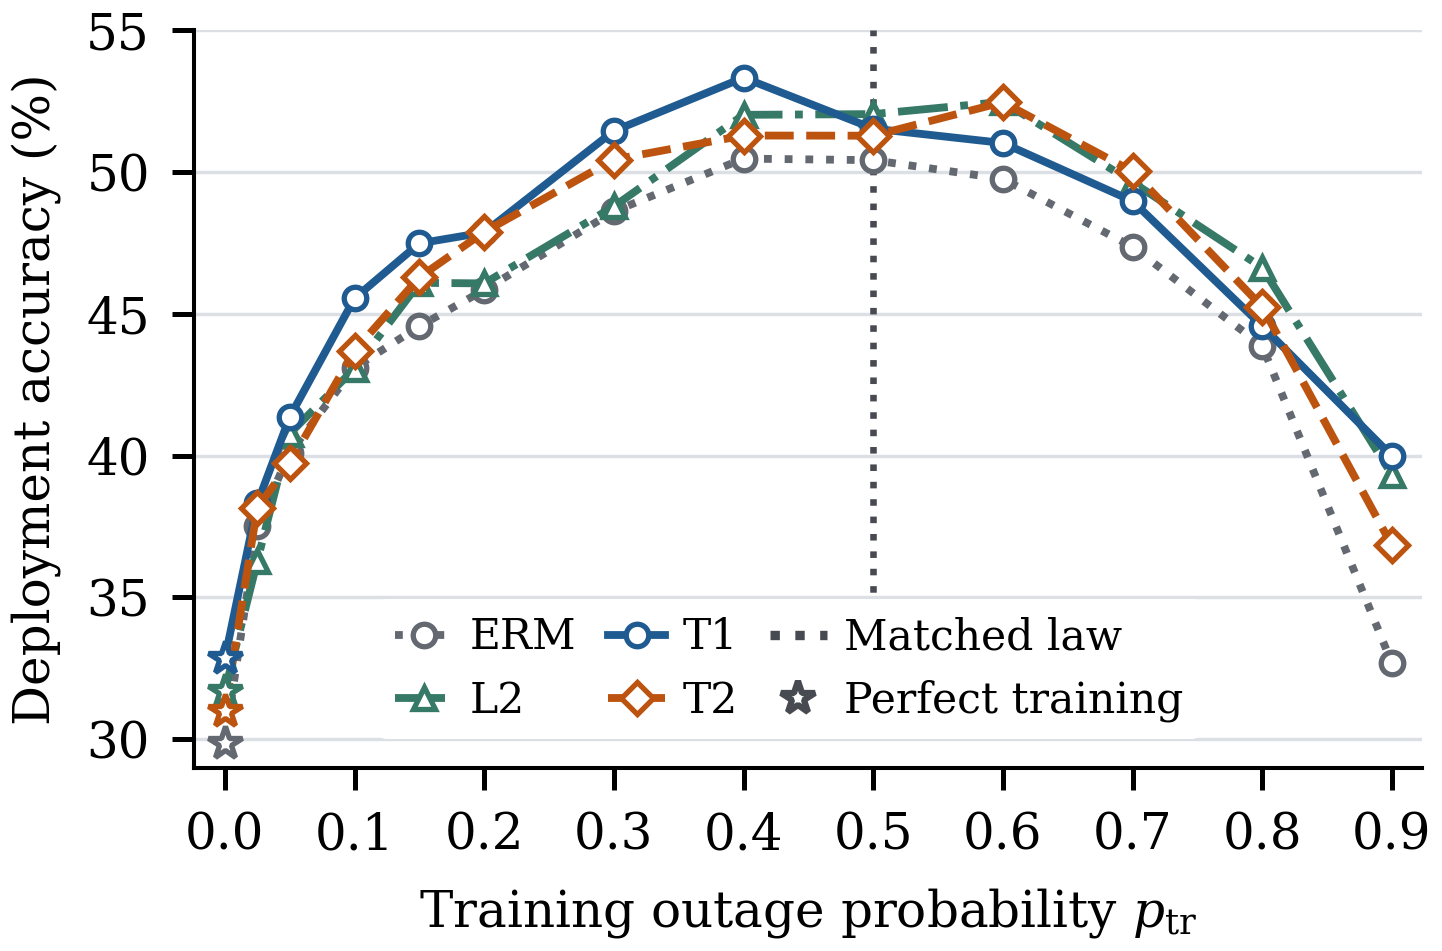
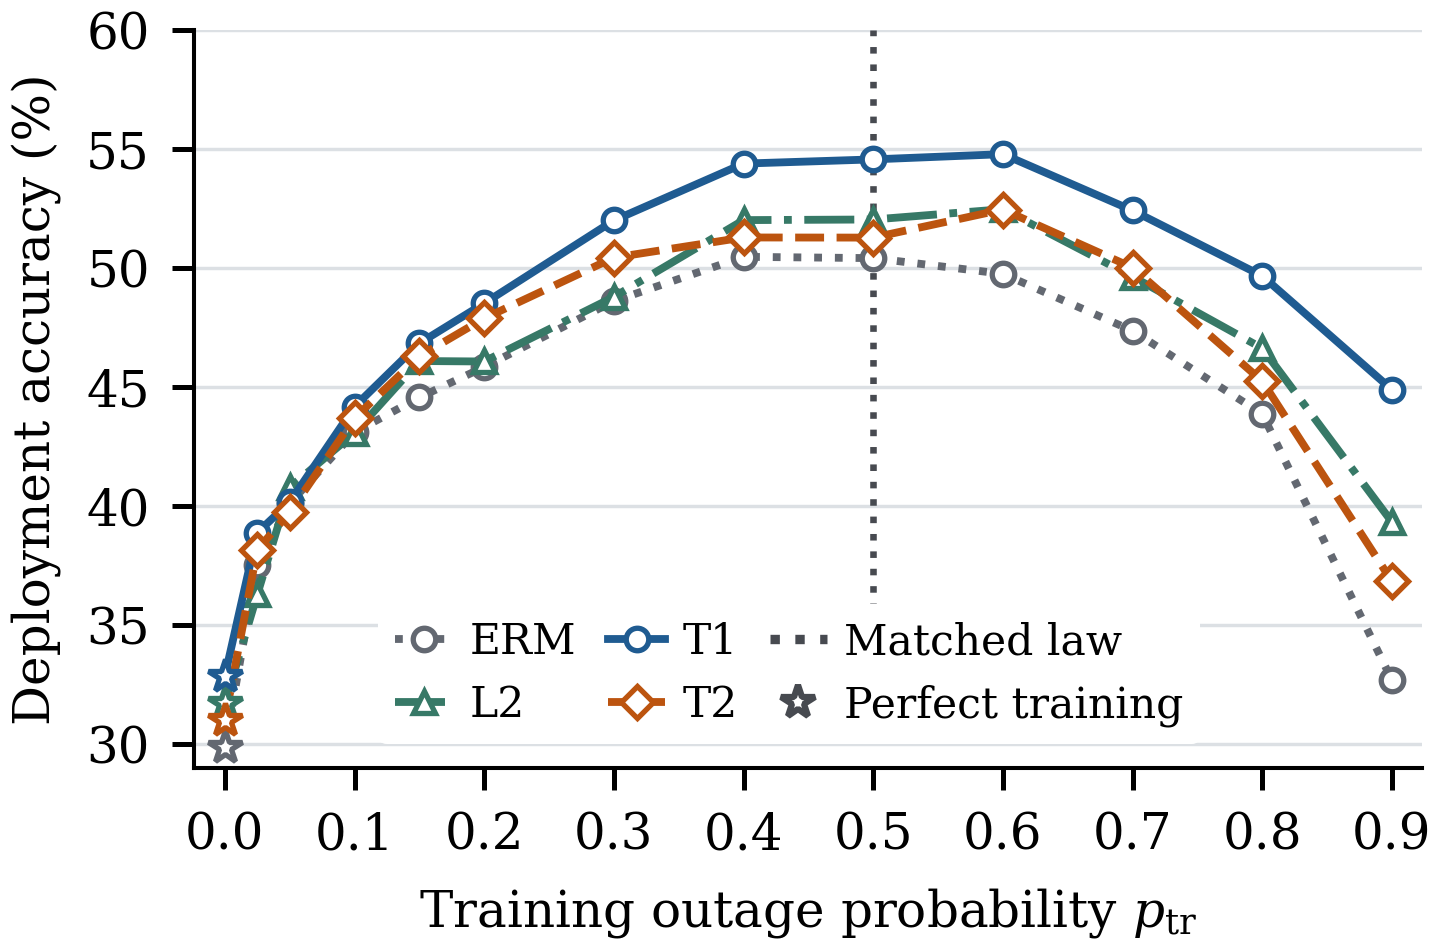
Make the fresh-prior CIFAR-10 mismatch figure the manuscript figure
The top-level figure now draws T1 from data_dependent/only_fresh. The original
fixed-prior figure moves to data/cifar10_mismatch/*_fixed_prior.* and is
redrawn by draw_cifar10_channel_mismatch.py --fixed-prior.

Changed region(s): [[0.0624, 0.061, 0.9986, 0.8233], [0.0624, 0.0, 0.0936, 0.061]]

diff --git a/results/final_chosen_results/draw_cifar10_channel_mismatch.py b/results/final_chosen_results/draw_cifar10_channel_mismatch.py
@@ -1,6 +1,12 @@
-"""Draw CIFAR-10 deployment accuracy from the m=2000 channel-mismatch sweep."""
+"""Draw CIFAR-10 deployment accuracy from the m=2000 channel-mismatch sweep.
+
+T1 uses the fresh data-dependent prior Q_{W|S} (data_dependent/only_fresh). With
+--fixed-prior, T1 uses the earlier fixed prior Q_W instead and the figure is
+written to data/cifar10_mismatch/cifar10_channel_mismatch_fixed_prior.*.
+"""
 
 import csv
+import sys
 import math
 from collections import defaultdict
 from pathlib import Path
@@ -15,7 +21,8 @@ from matplotlib.lines import Line2D
 
 OUTPUT_DIR = Path(__file__).resolve().parent
 BANK_SIZE = 2000
-SOURCE = OUTPUT_DIR / "data" / "cifar10_mismatch" / "observations.csv"
+SOURCE = OUTPUT_DIR / "data_dependent" / "only_fresh" / "cifar10_mismatch" / "observations.csv"
+STEM = "cifar10_channel_mismatch_all_methods"
 PROBABILITIES = (0.0, 0.025, 0.05, 0.1, 0.15, 0.2, 0.3, 0.4, 0.5, 0.6, 0.7, 0.8, 0.9)
 SEEDS = {75101, 75102, 75103}
 METHOD_STYLES = {
@@ -93,7 +100,7 @@ def draw(accuracies):
         fontsize=6.8,
     )
 
-    output = OUTPUT_DIR / "cifar10_channel_mismatch_all_methods"
+    output = OUTPUT_DIR / STEM
     export_options = {"bbox_inches": "tight", "pad_inches": 0.025}
     figure.savefig(
         output.with_suffix(".pdf"),
@@ -116,5 +123,16 @@ def main():
     draw(load_means())
 
 
+def use_fixed_prior():
+    global SOURCE, OUTPUT_DIR, STEM
+    OUTPUT_DIR = OUTPUT_DIR / "data" / "cifar10_mismatch"
+    SOURCE = OUTPUT_DIR / "observations.csv"
+    STEM = "cifar10_channel_mismatch_fixed_prior"
+
+
 if __name__ == "__main__":
+    if sys.argv[1:] == ["--fixed-prior"]:
+        use_fixed_prior()
+    elif sys.argv[1:]:
+        sys.exit("Usage: draw_cifar10_channel_mismatch.py [--fixed-prior]")
     main()

diff --git a/results/final_chosen_results/README.md b/results/final_chosen_results/README.md
@@ -5,7 +5,7 @@ The three figures and the two deployment accuracy tables below are the manuscrip
 | Output | Inputs and experiment |
 |---|---|
 | [MNIST finite-channel generalization](mnist_analog_finite_channel_generalization.pdf) | [Observations](data/mnist_bank/observations.csv) from 54 T1 fits, three paired seeds at each of 18 channel-set sizes from 2 to 25,600. Training and deployment use diagonal fading with correlation 0.35. |
-| [CIFAR-10 erasure mismatch](cifar10_channel_mismatch_all_methods.pdf) | [Observations](data/cifar10_mismatch/observations.csv) from 156 fits, four methods and three paired seeds at each of 13 training erasure probabilities. Deployment erases features with probability 0.50 and the bank size is 2000. |
+| [CIFAR-10 erasure mismatch](cifar10_channel_mismatch_all_methods.pdf) | [Observations](data_dependent/only_fresh/cifar10_mismatch/observations.csv) from 156 fits, four methods and three paired seeds at each of 13 training erasure probabilities. T1 uses the fresh Q_{W\|S} for every training erasure probability above 0 ([details](data_dependent/README.md)). At 0 the bank has no channel complexity, so the archived T1 fits are reused. ERM, L2 and T2 are the archived fits. Deployment erases features with probability 0.50 and the bank size is 2000. The earlier figure with the fixed prior Q_W is kept as [`data/cifar10_mismatch/cifar10_channel_mismatch_fixed_prior.pdf`](data/cifar10_mismatch/cifar10_channel_mismatch_fixed_prior.pdf) and is redrawn by `draw_cifar10_channel_mismatch.py --fixed-prior`. |
 | [Two-moons bound decomposition](bound_decomposition_d8_t1_t2_both_channels.pdf) | [Ten fitted case reports](data/bounds/) for width 8 and bank size 2000. Panel (a) uses fading with deployment correlation 0.35 and mismatch training at 0.15. Panel (b) uses erasure with deployment probability 0.50 and mismatch training at 0.45. |
 | [Deployment accuracy table](performance_table.tex) | [Per-seed accuracy](data_dependent/only_fresh/performance/deployment_by_seed.csv) from 180 fits at bank size 2000, with T1 using the fresh data-dependent prior Q_{W\|S} ([details](data_dependent/README.md)). Deployment uses correlated fading with correlation 0.35 and unit noise variance, or independent feature erasure with probability 0.50. |
 | [Bank-size table](bank_size_table.tex) | Best baseline max(ERM, L2) against best proposed max(T1, T2) at m = 20, 200, 1000 ([campaigns](higher_accuracy/README.md)) and 2000 (the table above). |
